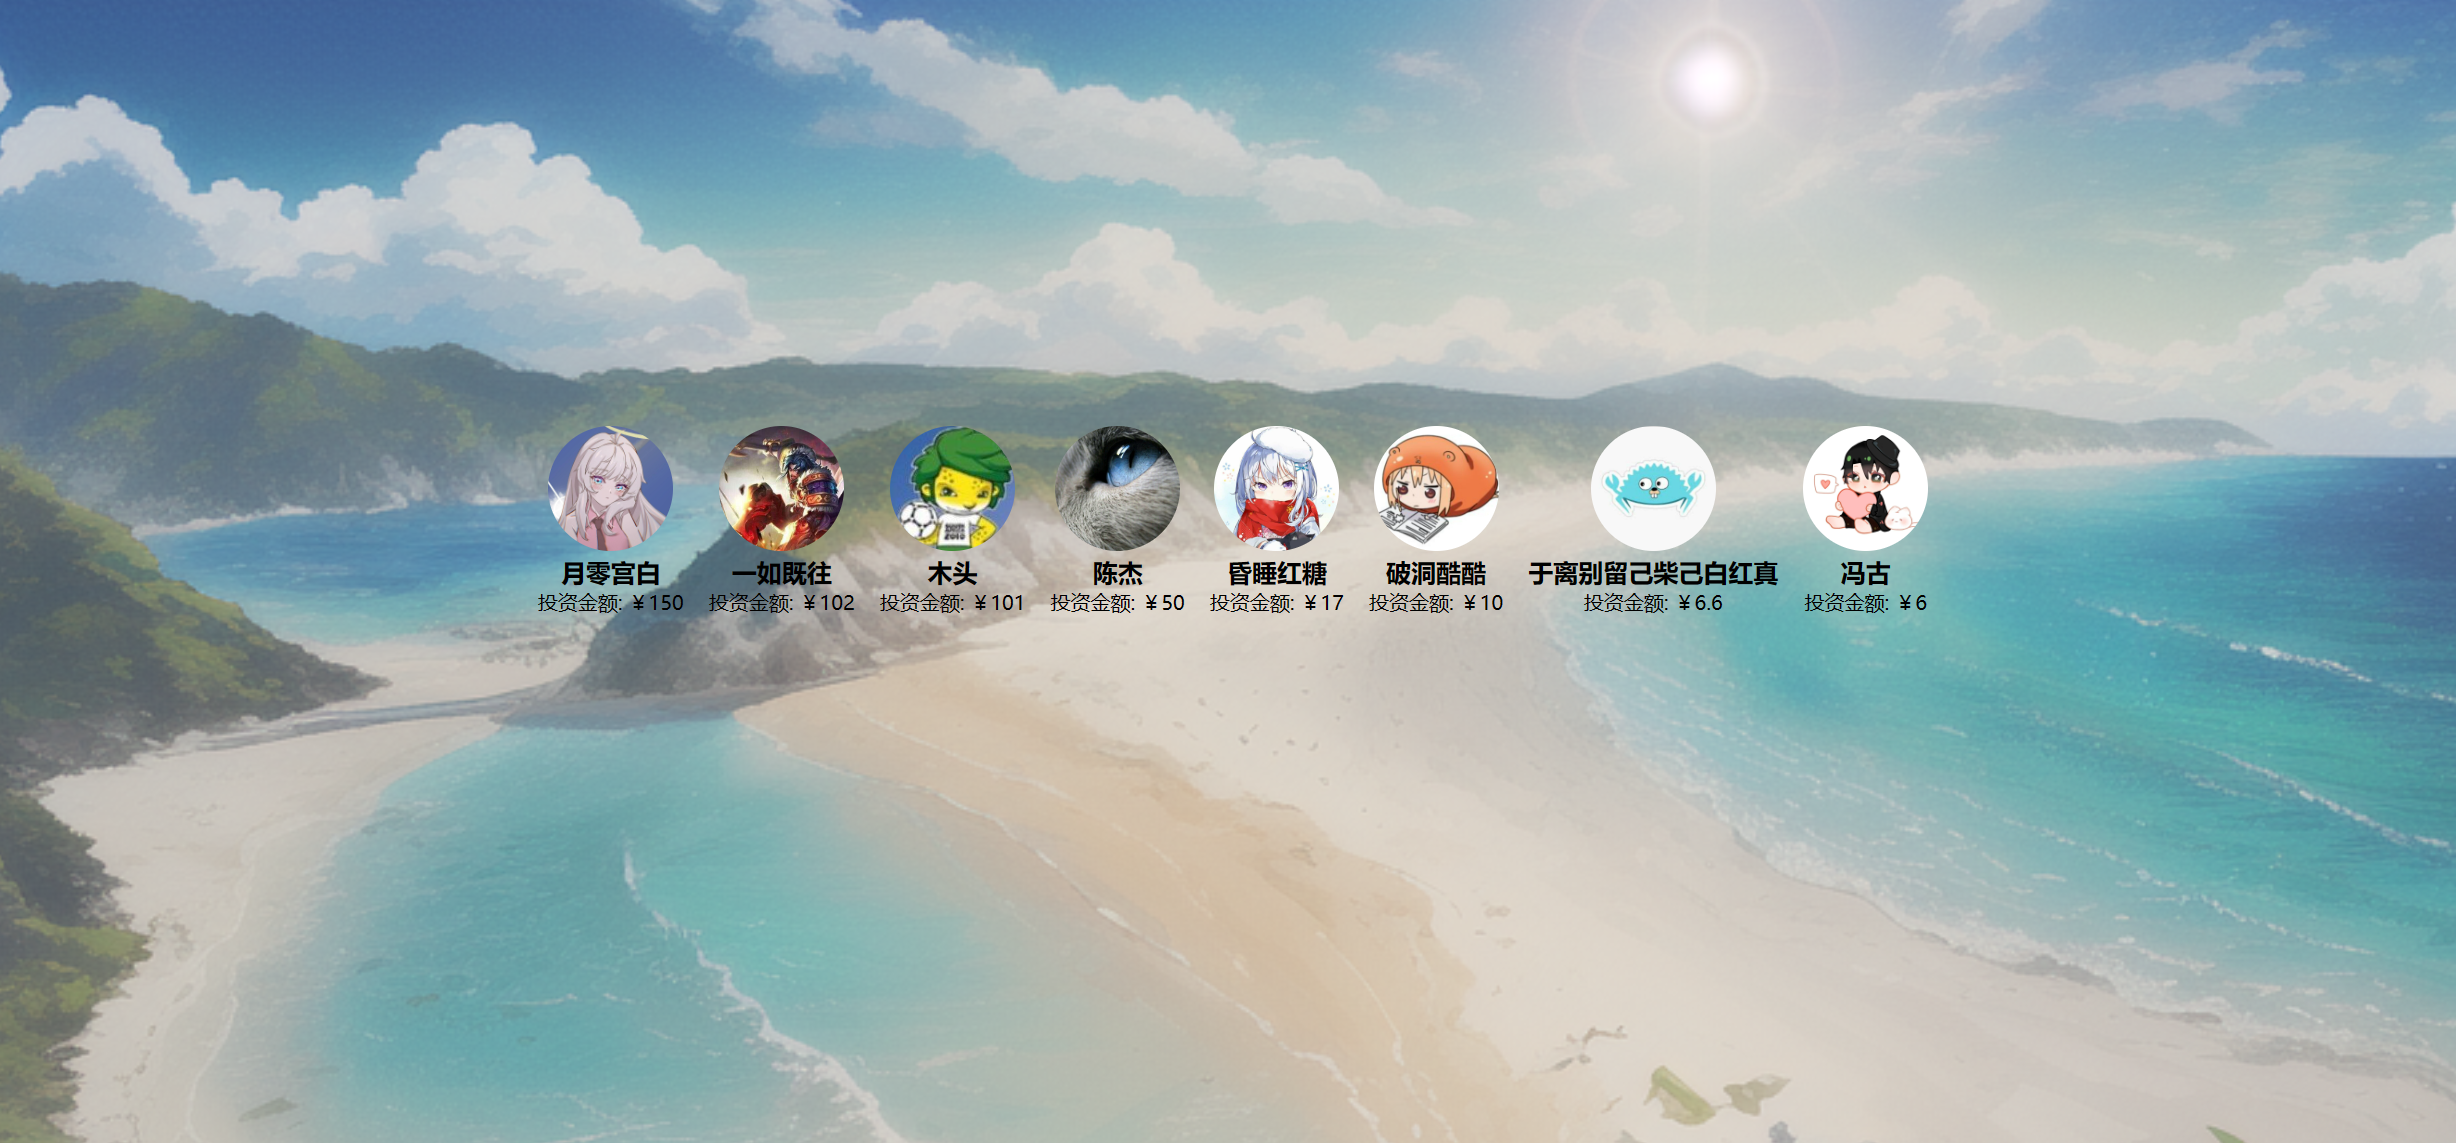
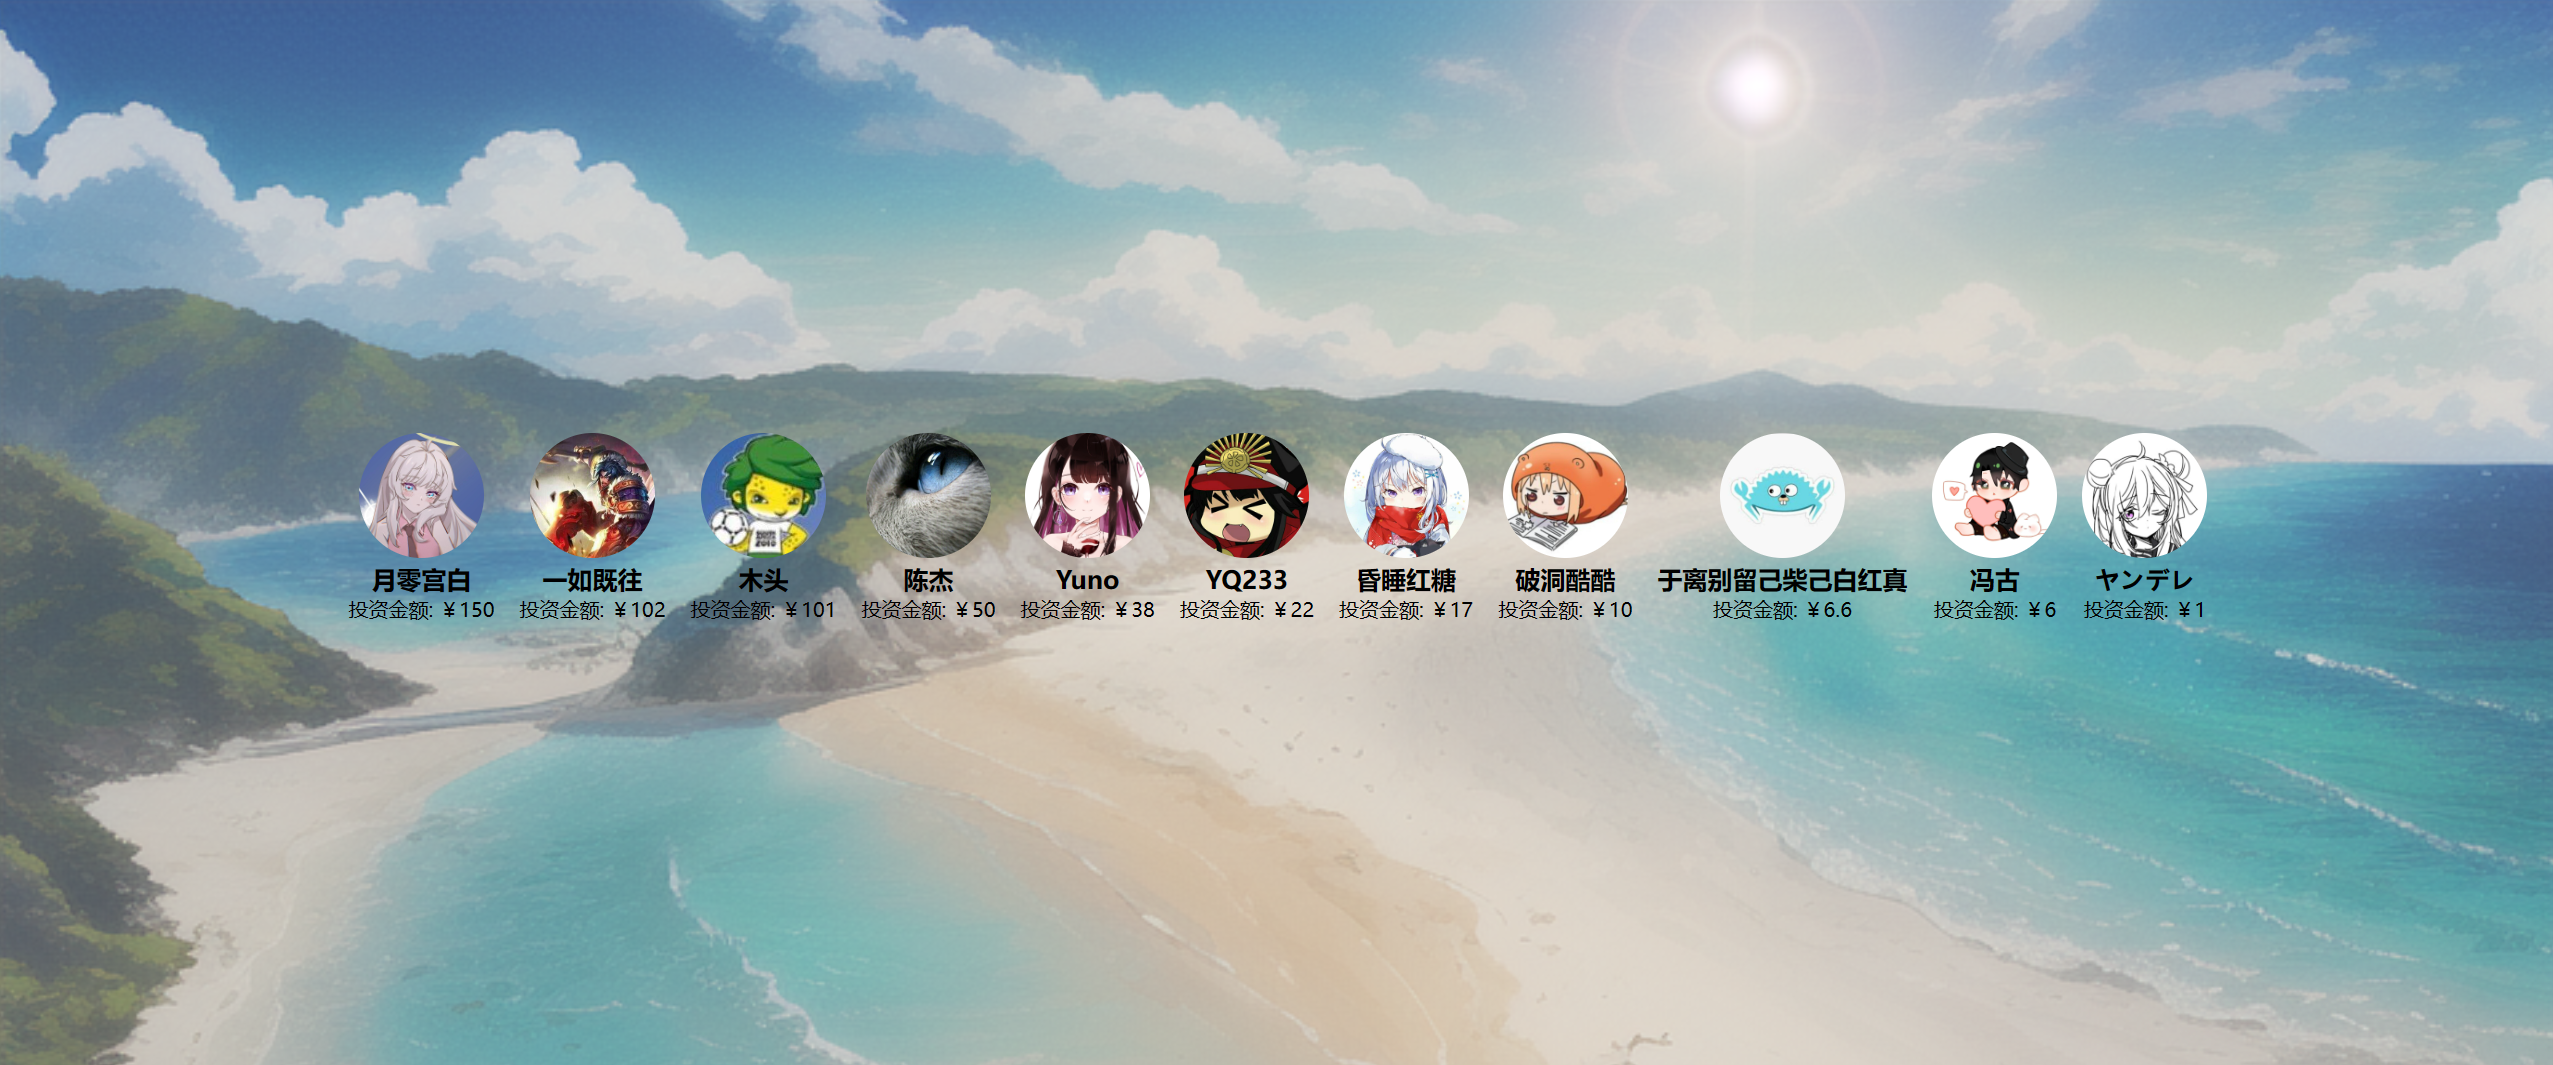
更新投资消息

diff --git a/docs/投资人/index.html b/docs/投资人/index.html
@@ -72,6 +72,16 @@
             amount: "￥50"
         },
         {
+            name: "Yuno",
+            avatar: "https://images.cnblogs.com/cnblogs_com/ikaros-521/2328032/o_230719132530_QQ%E5%9B%BE%E7%89%8720230719212024.jpg",
+            amount: "￥38"
+        },
+        {
+            name: "YQ233",
+            avatar: "https://images.cnblogs.com/cnblogs_com/ikaros-521/2328032/o_230719132530_QQ%E5%9B%BE%E7%89%8720230719212443.jpg",
+            amount: "￥22"
+        },
+        {
             name: "昏睡红糖",
             avatar: "https://images.cnblogs.com/cnblogs_com/ikaros-521/2328032/o_230719074436_%E6%98%8F%E7%9D%A1%E7%BA%A2%E7%B3%96.jpg",
             amount: "￥17"
@@ -90,6 +100,11 @@
             name: "冯古",
             avatar: "https://images.cnblogs.com/cnblogs_com/ikaros-521/2328032/o_230719074436_%E5%86%AF%E5%8F%A4.jpg",
             amount: "￥6"
+        },
+        {
+            name: "ヤンデレ",
+            avatar: "https://images.cnblogs.com/cnblogs_com/ikaros-521/2328032/o_230719132531_QQ%E5%9B%BE%E7%89%8720230719212346.jpg",
+            amount: "￥1"
         }
     ];
 
